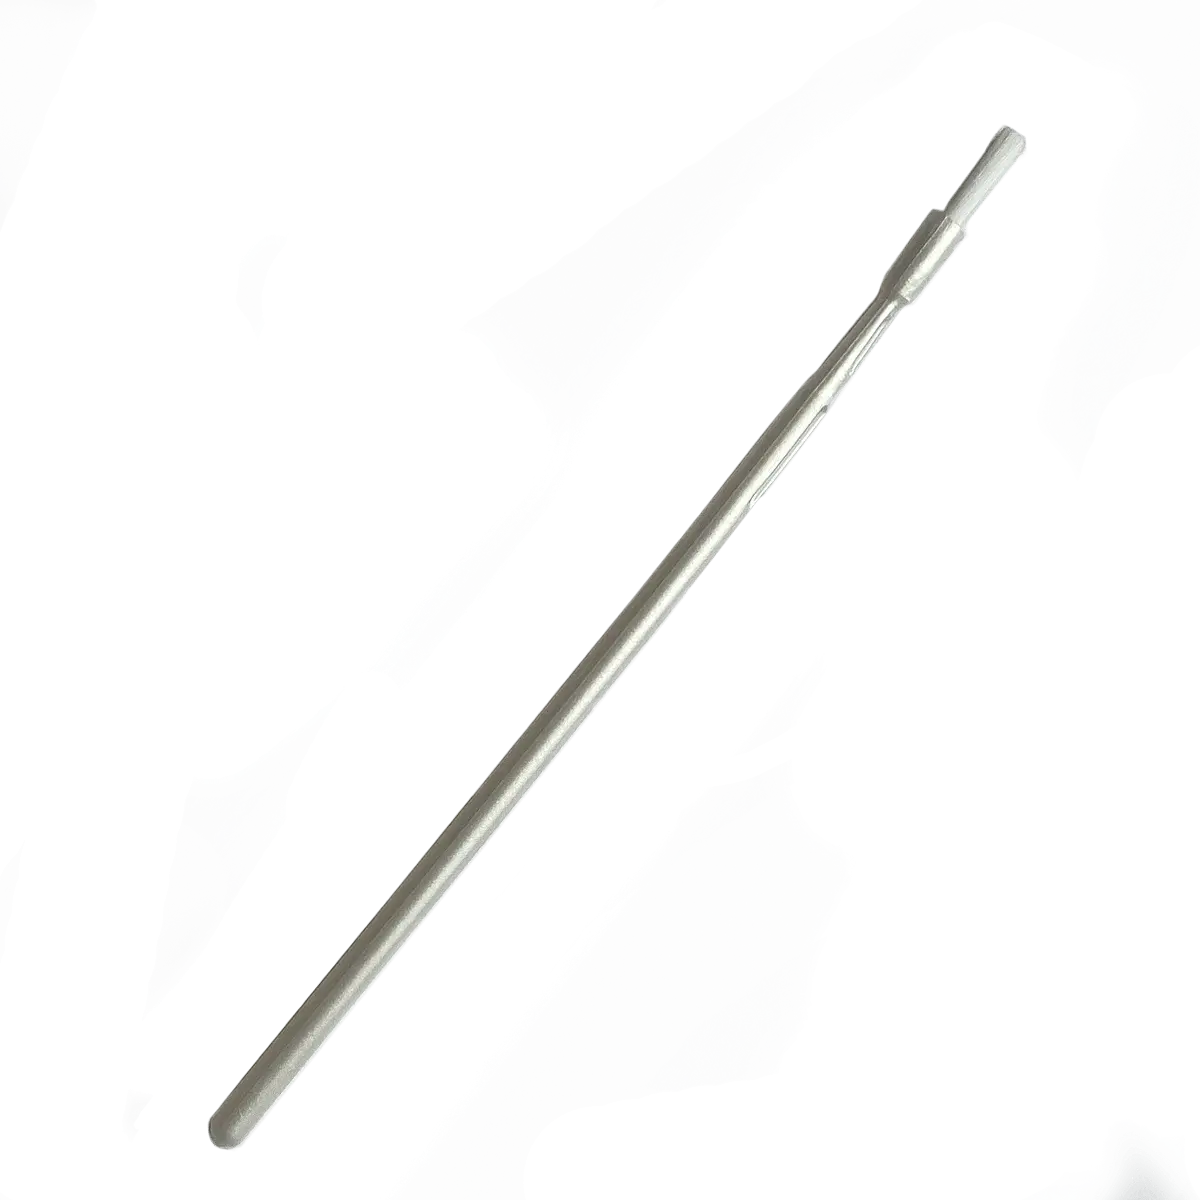
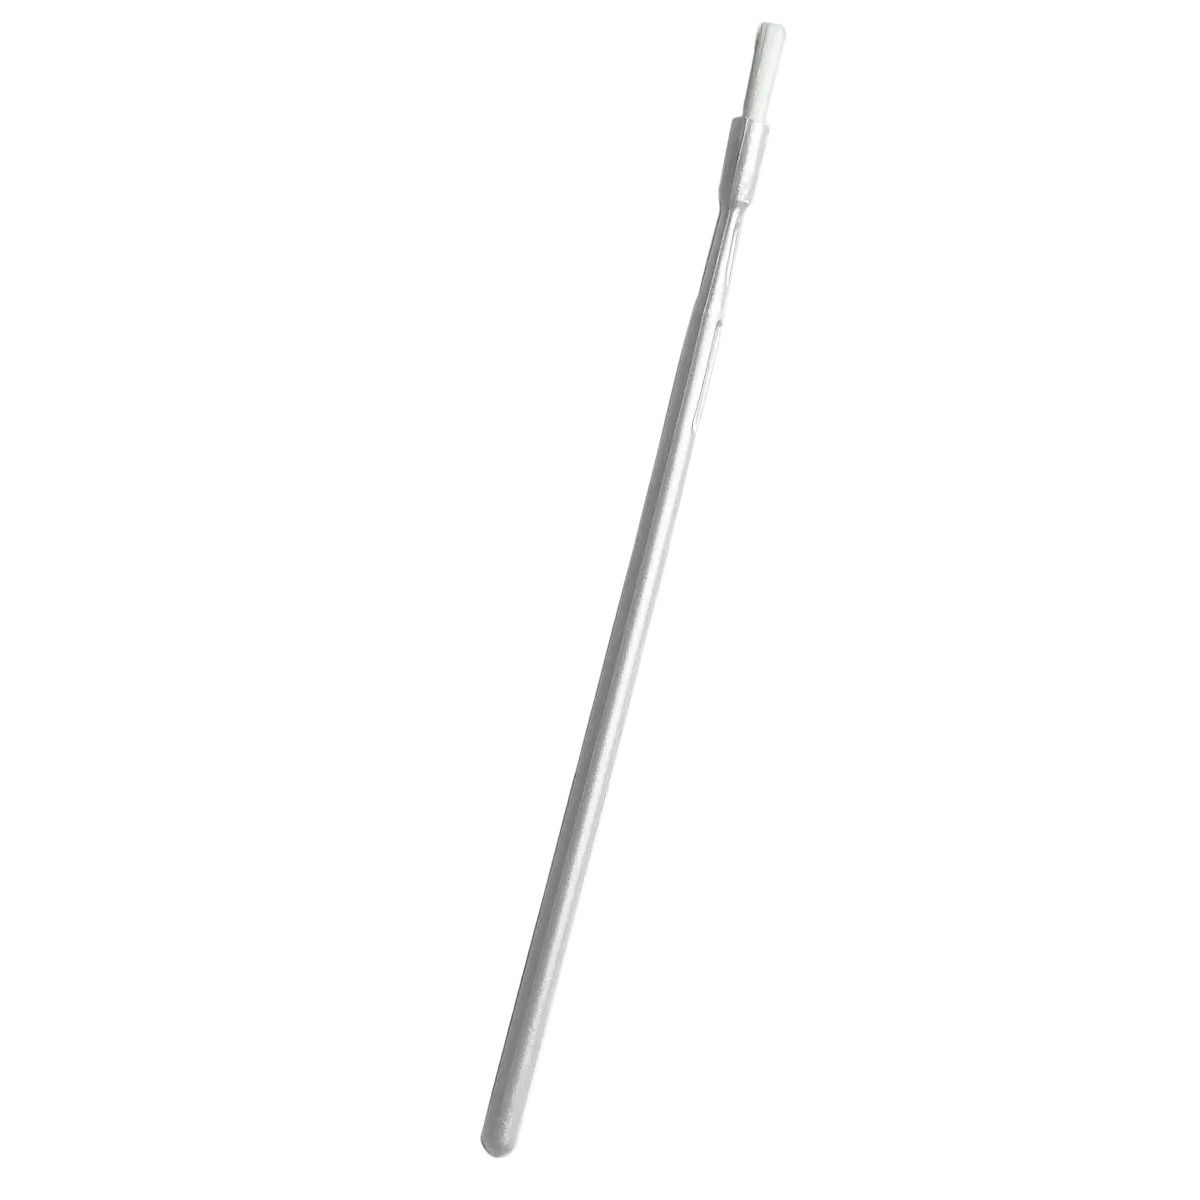
product hero - brush and cup - refinements

Changed region(s): [[0.1542, 0.0, 0.8633, 0.9867], [0.925, 0.9867, 0.9867, 1.0]]

diff --git a/css/product-hero.css b/css/product-hero.css
@@ -248,18 +248,18 @@ body {
   display: block;
   position: relative;
   z-index: 1;
-  -webkit-transform: translateY(6%);
-          transform: translateY(6%);
+  -webkit-transform: translate(0%, 7%);
+          transform: translate(0%, 7%);
 }
 .product-hero[data-product=cup] .product-hero__product-image--brush {
   display: block;
   position: absolute;
-  width: 100%;
+  width: 150%;
   height: auto;
   top: 50%;
   left: 50%;
-  -webkit-transform: translate(-26%, -42%);
-          transform: translate(-26%, -42%);
+  -webkit-transform: translate(-40%, -46%);
+          transform: translate(-40%, -46%);
 }
 .product-hero[data-product=cup] .product-hero__product-image--angle {
   display: none;
